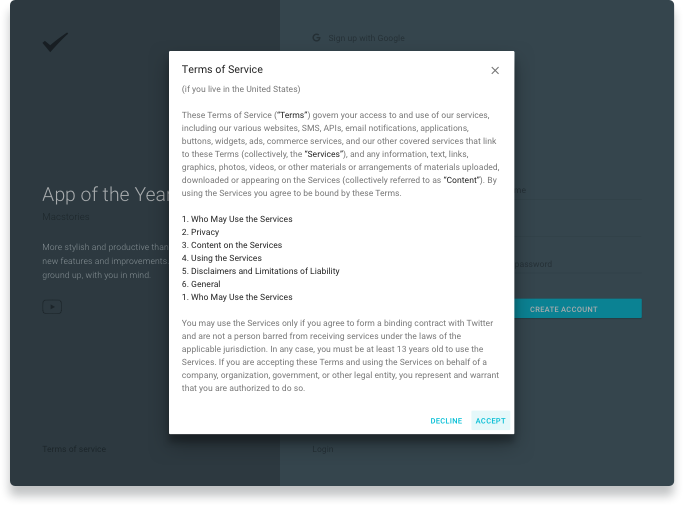
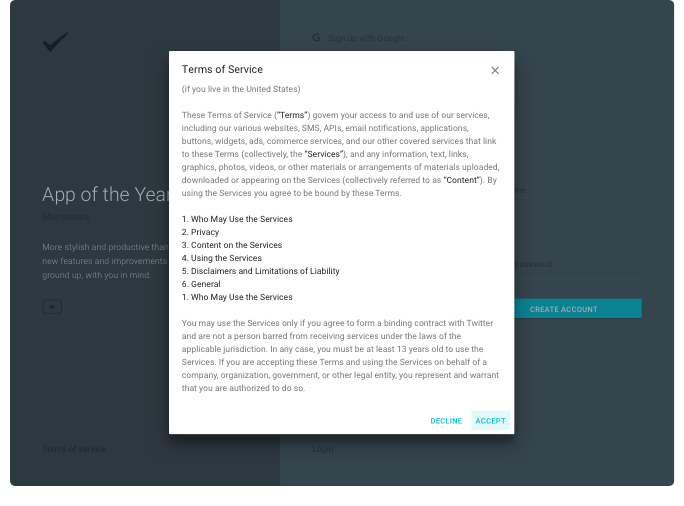
feat(todo): update todo-terms-of-service component

Changed region(s): [[0.0, 0.9486, 1.0, 1.0]]

diff --git a/src/app/todo/components/todo-terms-of-service/todo-terms-of-service.animations.ts b/src/app/todo/components/todo-terms-of-service/todo-terms-of-service.animations.ts
@@ -63,6 +63,12 @@ const hoverViewFadeOutAnimationDelay = 2000;
 const viewsContainerSlideOutAnimationDelay = 2000;
 
 // Animations
+const viewsQuery = `
+  .views > img.default,
+  .views > img.dialog-default,
+  .views > img.dialog-hover
+`;
+
 export const todoTermsOfServiceAnimation = () => {
   return [
     group([
@@ -76,7 +82,7 @@ export const todoTermsOfServiceAnimation = () => {
 
     // `defaultViewFadeOutAnimationDelay` is passed as parameter to the `query()` function
     // because `hoverViewFadeOutAnimationDelay` does not apply to the first match of the query
-    query('.views > img.default, .views > img.dialog-default', stagger(hoverViewFadeOutAnimationDelay, [
+    query(`${ viewsQuery }`, stagger(hoverViewFadeOutAnimationDelay, [
       useAnimation(fadeOutAnimation, { params: fadeOutAnimationParams })
     ]), { delay: defaultViewFadeOutAnimationDelay }),
 

diff --git a/src/app/todo/components/todo-terms-of-service/todo-terms-of-service.component.html b/src/app/todo/components/todo-terms-of-service/todo-terms-of-service.component.html
@@ -5,6 +5,7 @@
         <img class="default" src="assets/2do/terms-of-service/default.png" alt="default">
         <img class="dialog-default" src="assets/2do/terms-of-service/dialog-default.png" alt="dialog default">
         <img class="dialog-hover" src="assets/2do/terms-of-service/dialog-hover.png" alt="dialog hover">
+        <img class="default-shadow" src="assets/2do/terms-of-service/default-shadow.png" alt="default shadow">
       </div>
 
       <div class="background">

diff --git a/src/app/todo/components/todo-terms-of-service/todo-terms-of-service.component.scss b/src/app/todo/components/todo-terms-of-service/todo-terms-of-service.component.scss
@@ -35,15 +35,17 @@
 
     .default,
     .dialog-default,
-    .dialog-hover {
+    .dialog-hover,
+    .default-shadow {
       position: absolute;
       top: 0;
       left: 0;
     }
 
-    .default { z-index: 15; }
-    .dialog-default { z-index: 10; }
-    .dialog-hover { z-index: 5; }
+    .default { z-index: 20; }
+    .dialog-default { z-index: 15; }
+    .dialog-hover { z-index: 10; }
+    .default-shadow { z-index: 5; }
   }
 
   .background {
